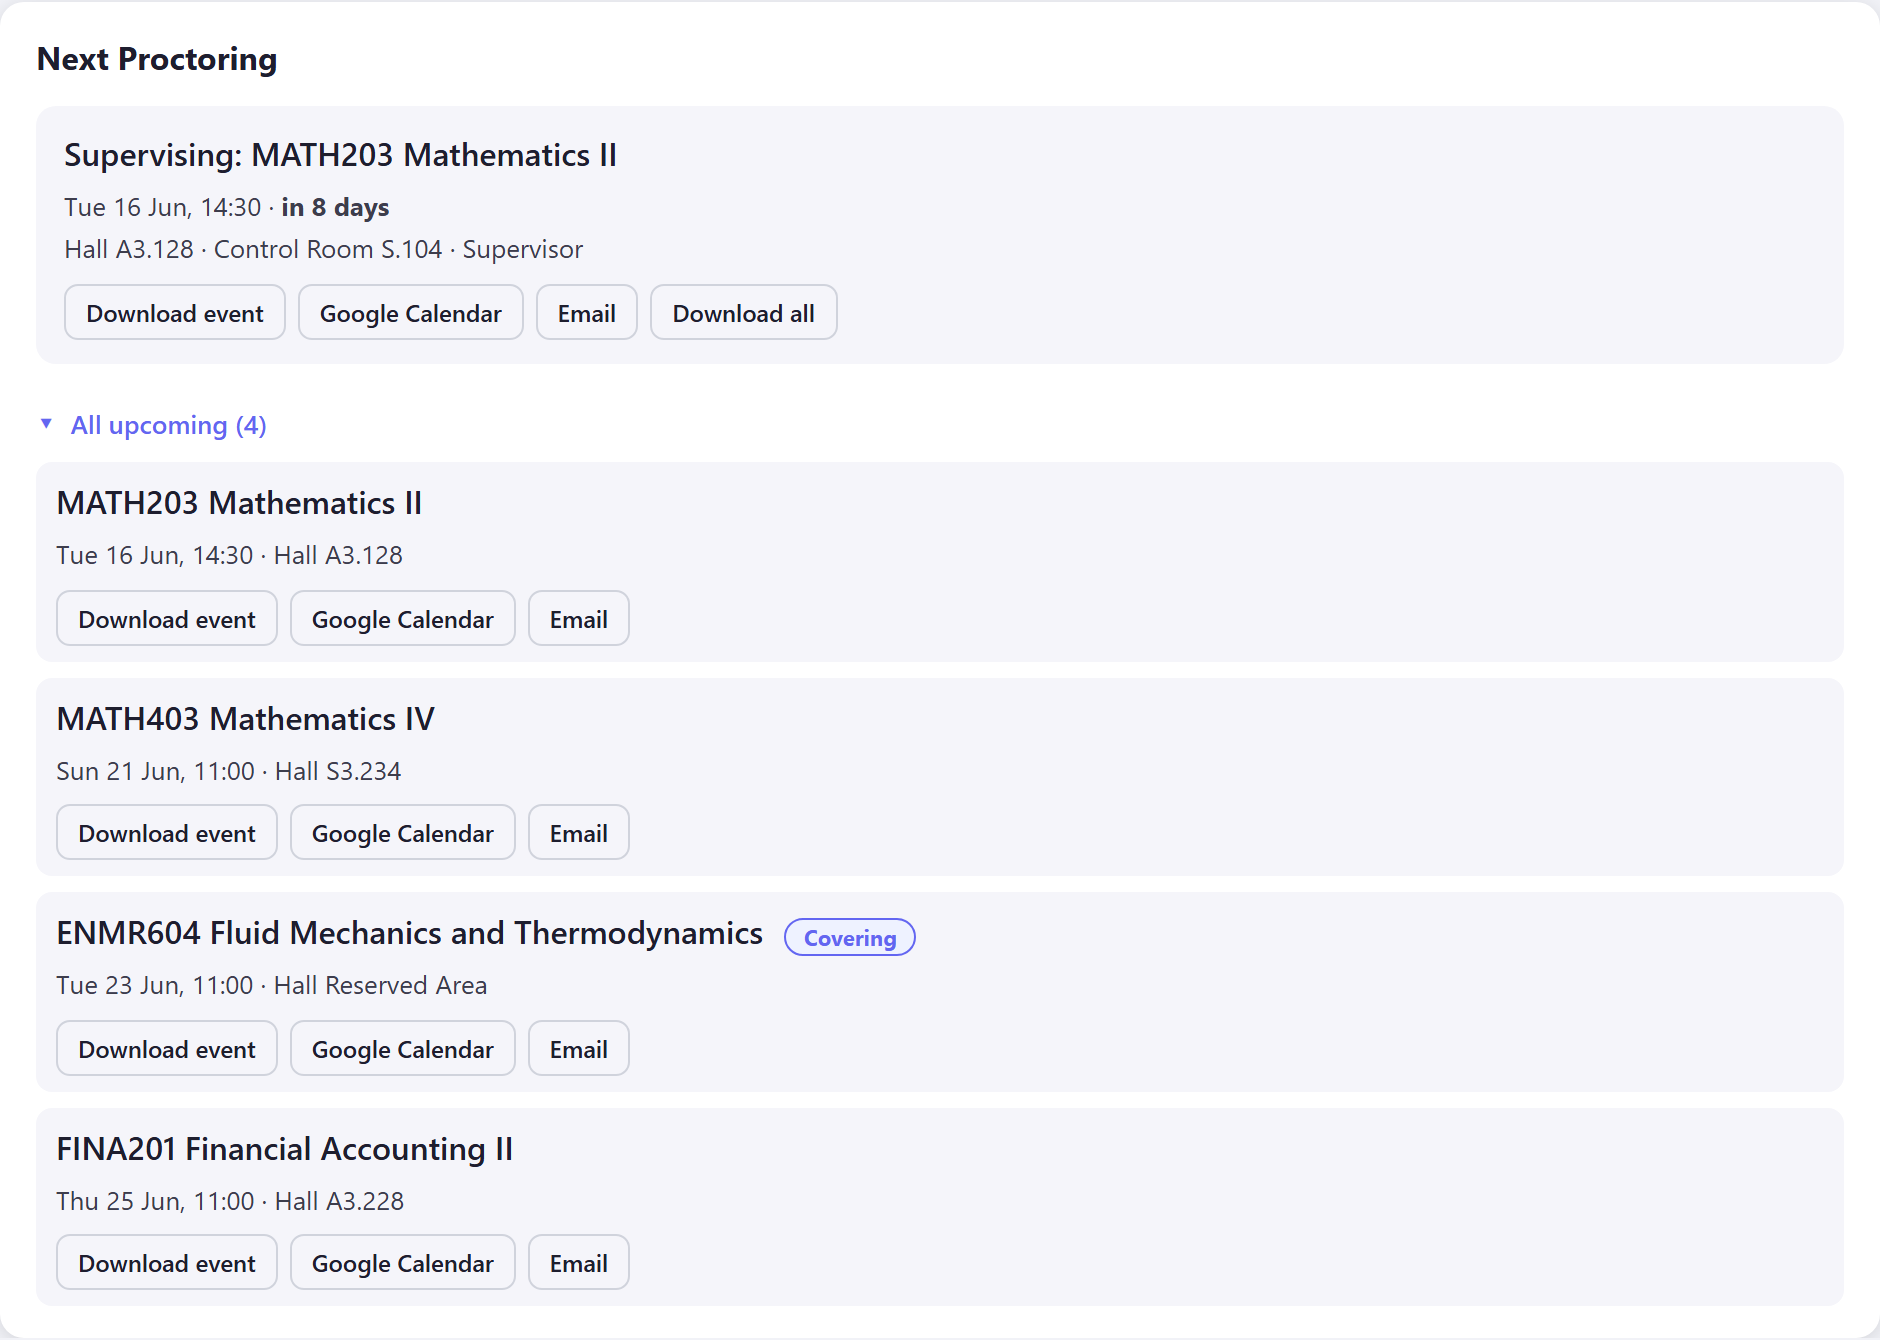
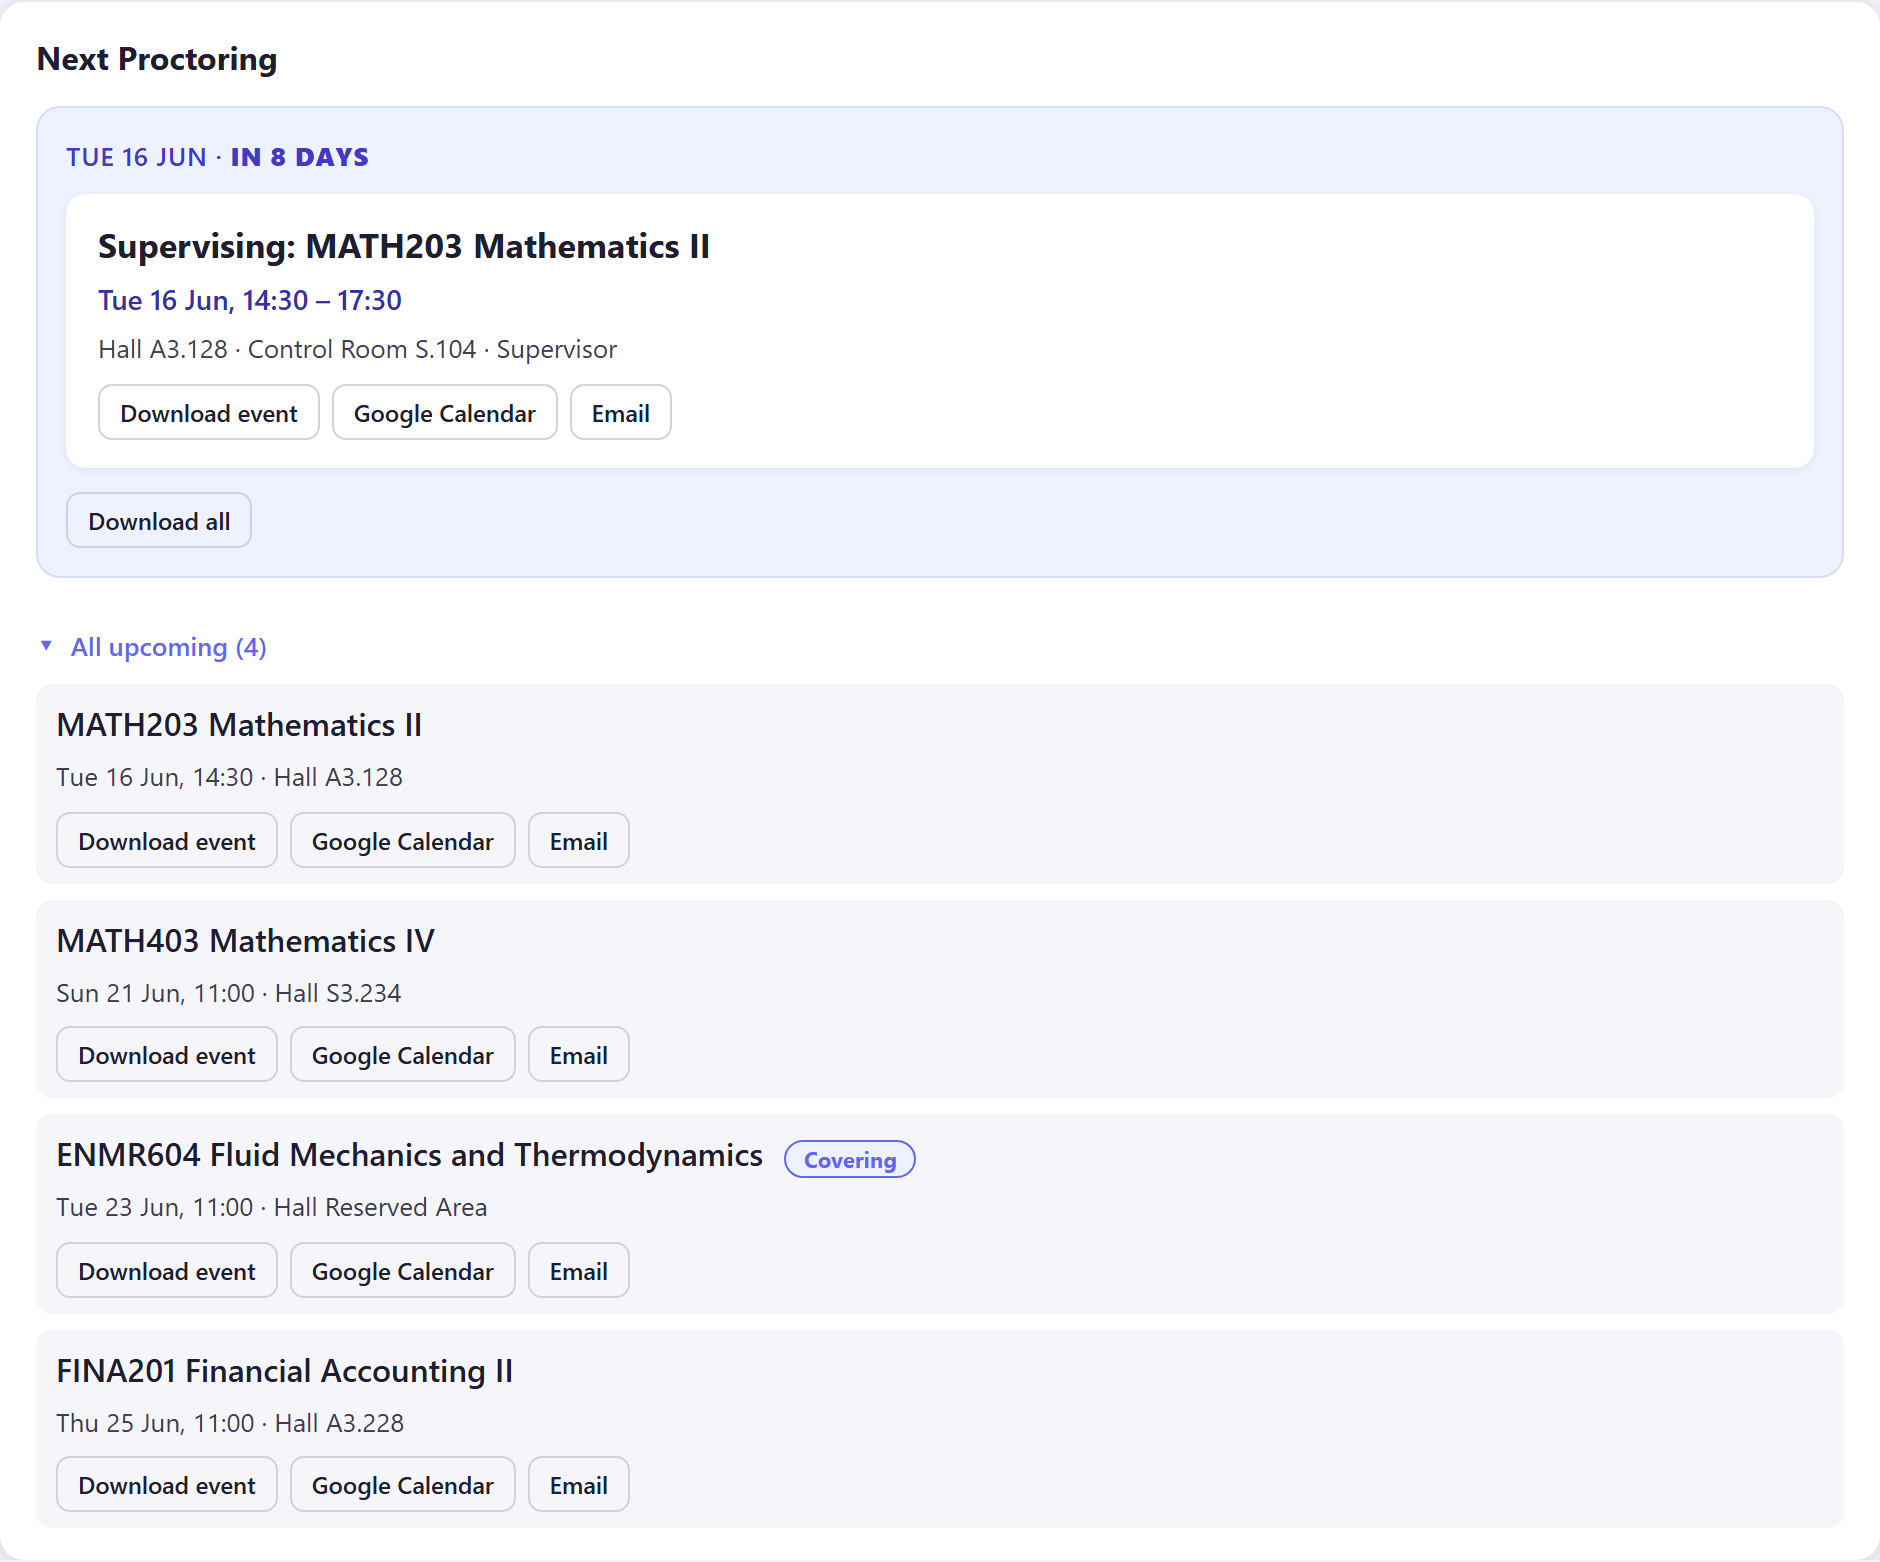
feat(proctoring-reminder): prominent next block — end time, day-grouped duties, control room only when supervising

diff --git a/scripts/GIU Proctoring Reminder.js b/scripts/GIU Proctoring Reminder.js
@@ -3,7 +3,7 @@
 // @description Shows your next proctoring session on the portal home page and exports reminders to calendar/email
 // @match       https://portal.giu-uni.de/GIUb/INTStaff/Home.aspx
 // @namespace   ramin0
-// @version     1.3
+// @version     1.4
 // @author      Mo.Elmaadawy
[1 lines of base64/hex data omitted]
 // @run-at      document-idle
@@ -147,6 +147,12 @@
     function fmtHuman(d) {
         return d.toLocaleString('en-GB', { weekday: 'short', day: 'numeric', month: 'short', hour: '2-digit', minute: '2-digit' });
     }
+    function fmtTimeOnly(d) {
+        return d.toLocaleString('en-GB', { hour: '2-digit', minute: '2-digit' });
+    }
+    function fmtDayLabel(d) {
+        return d.toLocaleString('en-GB', { weekday: 'short', day: 'numeric', month: 'short' });
+    }
     function googleCalUrl(s) {
         const text = `${dutyLabel(s)}: ${s.courseCode} ${s.examName}`.trim();
         const dates = `${icsDate(s.start)}/${icsDate(s.end)}`;
@@ -188,28 +194,22 @@
     }
 
     function wireExports(host) {
-        const next = host._next;
         const sessions = host._sessions;
 
-        const nextActions = host.querySelector('#gius-pr-next .gius-pr-actions');
-        if (nextActions && next) {
-            nextActions.innerHTML = exportButtonsHTML(next) +
-                `<button type="button" id="gius-pr-ics-all" class="gius-pr-act" title="Download all upcoming as .ics">Download all</button>`;
-            nextActions.querySelector('.gius-pr-ics').addEventListener('click', () =>
-                downloadICS(next, `proctoring-${next.courseCode}.ics`));
-            nextActions.querySelector('#gius-pr-ics-all').addEventListener('click', () =>
-                downloadICS(sessions, 'proctoring-all.ics'));
-        }
-
-        host.querySelectorAll('.gius-pr-row').forEach(row => {
-            const idx = Number(row.dataset.idx);
+        // Per-session export buttons for the next-day cards and the all-upcoming rows.
+        host.querySelectorAll('.gius-pr-next-card, .gius-pr-row').forEach(item => {
+            const idx = Number(item.dataset.idx);
             const s = sessions[idx];
-            const act = row.querySelector('.gius-pr-actions');
+            const act = item.querySelector('.gius-pr-actions');
             if (!s || !act) return;
             act.innerHTML = exportButtonsHTML(s);
             act.querySelector('.gius-pr-ics').addEventListener('click', () =>
                 downloadICS(s, `proctoring-${s.courseCode}.ics`));
         });
+
+        // "Download all" → every upcoming session in one file.
+        const allBtn = host.querySelector('#gius-pr-ics-all');
+        if (allBtn) allBtn.addEventListener('click', () => downloadICS(sessions, 'proctoring-all.ics'));
     }
 
     async function fetchTimetable() {
@@ -266,12 +266,24 @@
             ? '<span class="gius-pr-badge gius-pr-badge-cover">Covering</span>'
             : '';
 
+        // All duties sharing the next session's calendar day.
+        const nextDay = upcoming.filter(s => s.start.toDateString() === next.start.toDateString());
+
+        const locLine = s => `Hall ${s.hall}${s.type === 'Supervisor' ? ` · Control Room ${s.controlRoom}` : ''} · ${s.type}`;
+
+        const nextCard = s => `
+            <div class="gius-pr-next-card" data-idx="${upcoming.indexOf(s)}">
+                <div class="gius-pr-next-title">${dutyLabel(s)}: ${s.courseCode} ${s.examName} ${badge(s)}</div>
+                <div class="gius-pr-next-time">${fmtHuman(s.start)} – ${fmtTimeOnly(s.end)}</div>
+                <div class="gius-pr-meta">${locLine(s)}</div>
+                <div class="gius-pr-actions"></div>
+            </div>`;
+
         const nextHtml = `
             <div id="gius-pr-next" class="gius-pr-next">
-                <div class="gius-pr-title">${dutyLabel(next)}: ${next.courseCode} ${next.examName} ${badge(next)}</div>
-                <div class="gius-pr-meta">${fmtHuman(next.start)} · <b>${relTime(next.start, now)}</b></div>
-                <div class="gius-pr-meta">Hall ${next.hall} · Control Room ${next.controlRoom} · ${next.type}</div>
-                <div class="gius-pr-actions" data-idx="next"></div>
+                <div class="gius-pr-next-head">${fmtDayLabel(next.start)} · <b>${relTime(next.start, now)}</b>${nextDay.length > 1 ? ` · ${nextDay.length} duties` : ''}</div>
+                ${nextDay.map(nextCard).join('')}
+                <button type="button" id="gius-pr-ics-all" class="gius-pr-act gius-pr-act-all" title="Download all upcoming as .ics">Download all</button>
             </div>`;
 
         const listHtml = `
@@ -299,9 +311,7 @@
             toggleBtn.classList.toggle('gius-pr-toggle-open', open);
         });
 
-        // export buttons wired in Task 8
         host._sessions = upcoming;
-        host._next = next;
         wireExports(host);
     }
 
@@ -314,7 +324,16 @@
             .gius-pr-widget *{box-sizing:border-box;}
             .gius-pr-head{font-weight:700;font-size:16px;margin-bottom:12px;}
             .gius-pr-stale{color:#b8860b;font-weight:600;font-size:12px;}
-            .gius-pr-next{background:#f5f5fa;border-radius:10px;padding:12px 14px;margin-bottom:10px;}
+            .gius-pr-next{background:#eef2ff;border:1px solid #d7ddff;border-radius:12px;
+                padding:14px;margin-bottom:14px;}
+            .gius-pr-next-head{font-size:13px;font-weight:600;color:#4338ca;
+                text-transform:uppercase;letter-spacing:.03em;margin-bottom:10px;}
+            .gius-pr-next-card{background:#ffffff;border-radius:10px;padding:14px 16px;
+                box-shadow:0 1px 4px rgba(49,46,129,.08);}
+            .gius-pr-next-card + .gius-pr-next-card{margin-top:10px;}
+            .gius-pr-next-title{font-size:17px;font-weight:700;line-height:1.3;margin-bottom:6px;}
+            .gius-pr-next-time{font-size:14px;font-weight:600;color:#3730a3;margin-bottom:4px;}
+            .gius-pr-act-all{margin-top:12px;}
             .gius-pr-title{font-weight:600;margin-bottom:4px;}
             .gius-pr-meta{font-size:13px;opacity:.85;margin:2px 0;}
             .gius-pr-badge{display:inline-block;vertical-align:middle;line-height:1;font-size:11px;font-weight:700;

diff --git a/tests/fixtures/timetable-sameday.html b/tests/fixtures/timetable-sameday.html
@@ -1,0 +1,15 @@
+<!DOCTYPE html><html><head><title>GIU-PortalAdmin</title></head><body>
+<form method="post" action="./ViewTimeTable_m.aspx" id="form1">
+<div id="MainContent_div_tt">
+<table border="1" id="MainContent_tmTblDg" style="width:100%;border-collapse:collapse;">
+<tbody>
+<tr><td>Exam</td><td>Hall</td><td>Start Time</td><td>End Time</td><td>Type</td><td>Control Room</td></tr>
+<tr><td>Dec  1 2030  8:30AM ---&gt; GIU-Cairo.Business Administration 4th - BSAD409 Applied Statistics</td><td>S1.107</td><td>12/1/2030 8:30:00 AM</td><td>12/1/2030 10:30:00 AM</td><td>Supervisor</td><td>S.104</td></tr>
+<tr><td>Dec  1 2030  1:00PM ---&gt; GIU-Cairo.Engineering 2nd - MATH203 Mathematics II</td><td>A3.128</td><td>12/1/2030 1:00:00 PM</td><td>12/1/2030 3:00:00 PM</td><td>Observer</td><td>S.200</td></tr>
+<tr><td>Dec  9 2030 11:00AM ---&gt; GIU-Cairo.Informatics and Computer Science 4th - MATH403 Mathematics IV</td><td>S3.234</td><td>12/9/2030 11:00:00 AM</td><td>12/9/2030 2:00:00 PM</td><td>Supervisor</td><td>S.104</td></tr>
+</tbody></table>
+<table border="1" id="MainContent_coverDG" style="width:100%;border-collapse:collapse;">
+<tbody>
+<tr><td>Exam</td><td>Hall</td><td>Start Time</td><td>End Time</td><td>Type</td><td>Control Room</td></tr>
+</tbody></table>
+</div></form></body></html>

diff --git a/tests/proctor-reminder.spec.js b/tests/proctor-reminder.spec.js
@@ -13,6 +13,7 @@ const scriptSrc = fs.readFileSync(
 const homeHtml          = fix('home.html');
 const timetableHtml     = fix('timetable.html');
 const timetableEmptyHtml = fix('timetable-empty.html');
+const timetableSameDayHtml = fix('timetable-sameday.html');
 
 // Route Home + timetable to fixtures, inject script, return the API hook.
 async function setup(page, { timetable = timetableHtml } = {}) {
@@ -195,6 +196,19 @@ test.describe('GIU Proctoring Reminder', () => {
         expect(isAfterTargetList).toBe(true);
         // no "Own" badge is rendered (script shows only the user's own schedule)
         await expect(page.locator('#gius-pr-widget')).not.toContainText('Own');
+    });
+
+    test('next block shows all duties on the next session day, end time, and conditional control room', async ({ page }) => {
+        await setup(page, { timetable: timetableSameDayHtml }); // two duties on Dec 1 2030
+        await expect(page.locator('#gius-pr-widget')).toBeVisible({ timeout: 5000 });
+        const cards = page.locator('#gius-pr-next .gius-pr-next-card');
+        await expect(cards).toHaveCount(2);
+        await expect(page.locator('.gius-pr-next-head')).toContainText('2 duties');
+        // end time present as a range
+        await expect(cards.first().locator('.gius-pr-next-time')).toContainText('–');
+        // Supervisor card shows Control Room; Observer card does not
+        await expect(cards.filter({ hasText: 'Supervisor' })).toContainText('Control Room');
+        await expect(cards.filter({ hasText: 'Observer' })).not.toContainText('Control Room');
     });
 
     test('widget lists all upcoming sessions on expand', async ({ page }) => {

diff --git a/README.md b/README.md
@@ -314,7 +314,7 @@ https://portal.giu-uni.de/GIUb/INTStaff/ClassAttendance_ManageStudentAttendances
 
 ### 8. GIU Proctoring Reminder
 
-**File:** `GIU Proctoring Reminder.js` | **Version:** 1.3 | **Author:** Mo.Elmaadawy
+**File:** `GIU Proctoring Reminder.js` | **Version:** 1.4 | **Author:** Mo.Elmaadawy
 
 Shows your next proctoring session on the portal home page and exports reminders to `.ics`, Google Calendar, or email. Fetches your timetable in the background, caches it for 6 hours, and renders a full-width widget directly under the **Target List** block.
 
@@ -327,7 +327,9 @@ https://portal.giu-uni.de/GIUb/INTStaff/Home.aspx
 
 **Features:**
 
-- **Next session at a glance** — displays course code, exam name, hall, control room, and a relative countdown (e.g. "in 8 days")
+- **Next session, highlighted** — prominent card with course code, exam name, full start–end time, hall, and a relative countdown (e.g. "in 8 days"). Labelled **Supervising** for supervisor duties, otherwise **Proctoring**
+- **All duties on that day** — if you have more than one duty on the next session's day, every one is shown
+- **Control room** — shown only for supervisor duties (where it's relevant)
 - **Covering badge** — cover duties (exams you took from a colleague) are tagged "Covering"; your own duties are shown plain
 - **All upcoming list** — expand (animated slide) to see every future proctoring duty in chronological order
 - **Export per session** — **Download event** (`.ics`), open in **Google Calendar**, or send a reminder **Email** for any individual session